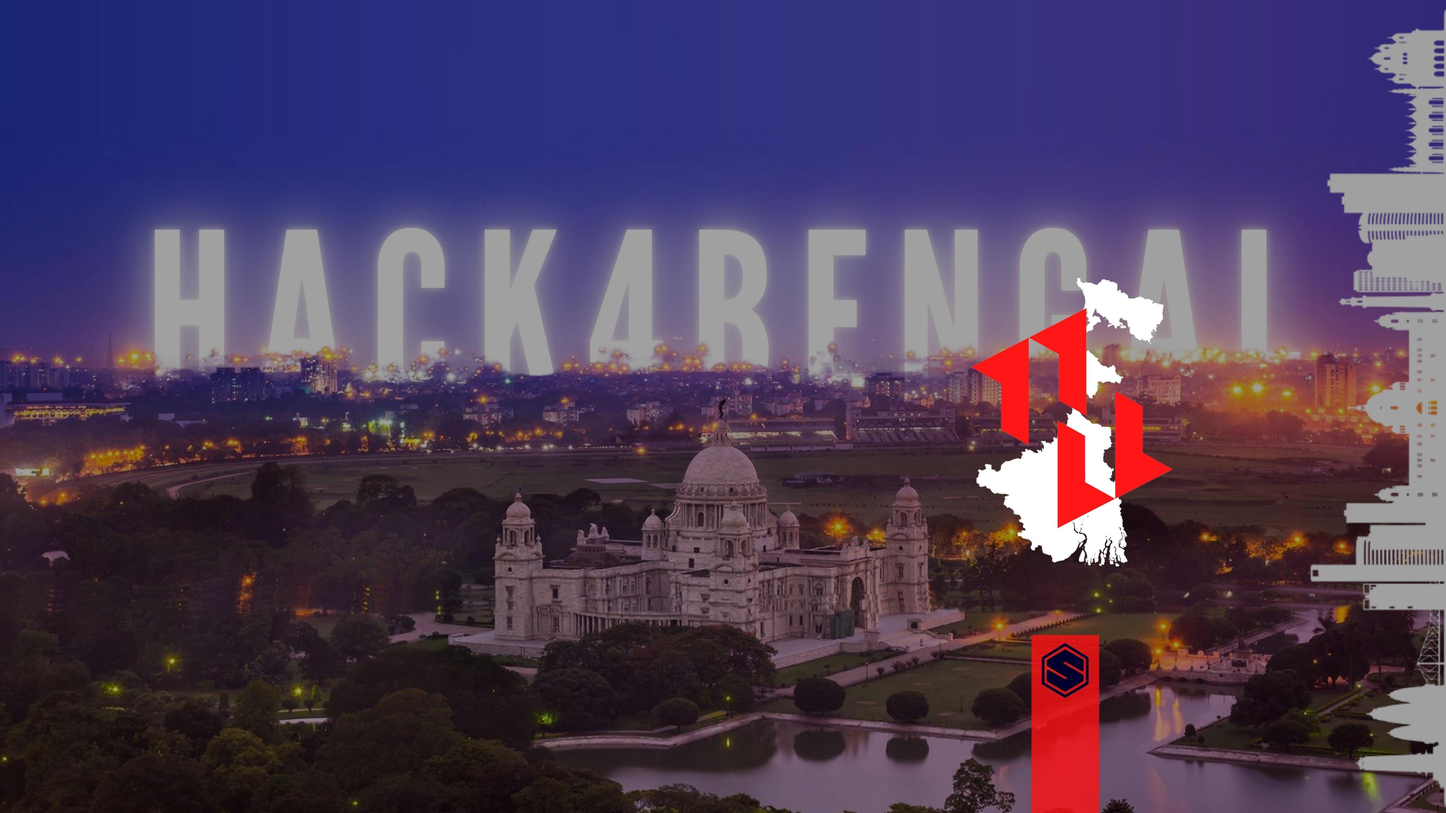
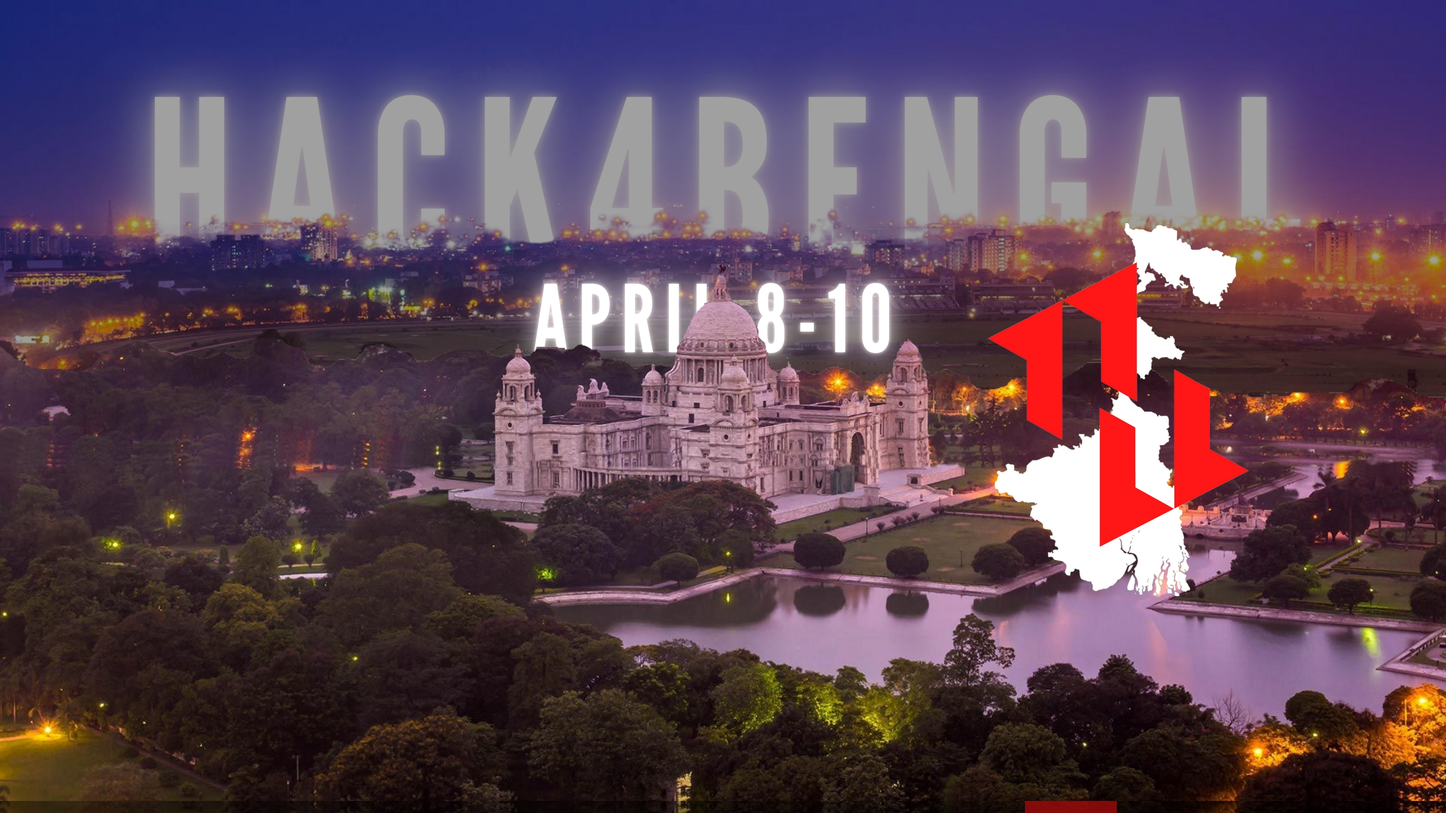
home scr

diff --git a/index.html b/index.html
@@ -36,7 +36,7 @@
   <script async src="https://www.googletagmanager.com/gtag/js?id=G-SBJFT4043Y"></script>
   <script>
     window.dataLayer = window.dataLayer || [];
-    function gtag(){dataLayer.push(arguments);}
+    function gtag() { dataLayer.push(arguments); }
     gtag('js', new Date());
 
     gtag('config', 'G-SBJFT4043Y');
@@ -130,14 +130,16 @@
           <!-- <a href="#about" class="btn-join-discord scrollto" data-hackathon-slug="hack4bengal" data-button-theme="light"
             style="height: 44px; width: 312px;">&nbsp;</a> -->
           <div class="btn-join-discord scrollto py-2 col-lg-6 col-md-12 col-sm-12">
-            <a href="https://discord.gg/HaRVXjm5FP" target="_blank" style="height: 44px;width: 312px; max-width: 312px; text-align: center;"
-              class="btn-lg register-btn discord"><i class='bi bi-discord'>&nbsp Join Discord Server</i></a>
+            <a href="https://discord.gg/HaRVXjm5FP" target="_blank"
+              style="height: 44px;width: 312px; max-width: 312px; text-align: center;"
+              class="btn-lg register-btn discord"><i class='bi bi-discord' style="font-style: normal;">&nbsp Join
+                Discord Server</i></a>
           </div>
           <div class="py-2 col-lg-6 col-md-12 col-sm-12">
             <div class="apply-button" data-hackathon-slug="uplift" data-button-theme="light"
               style="height: 44px; width: 312px"></div>
           </div>
-          
+
         </div>
       </div>
     </div>
@@ -147,8 +149,67 @@
 
   <main id="main">
     <!-- ======= Portfolio Section ======= -->
+    <section id="testimonials" class="testimonials" style="padding-bottom: 0px;">
+      <div class="container" data-aos="fade-up">
+        <div class="section-title" style="padding: 0px">
+          <h2 style="color: red">Starts In</h2>
+          <h2 id="counterTimer"></h2>
+          <style>
+            #counterTimer {
+              font-size: 120px;
+              font-family: 'Lucida Sans', 'Lucida Sans Regular', 'Lucida Grande', 'Lucida Sans Unicode', Geneva, Verdana, sans-serif;
+            }
 
+            @media (max-width: 768px) {
+              #counterTimer {
+                font-size: 30px;
+                font-family: 'Lucida Sans', 'Lucida Sans Regular', 'Lucida Grande', 'Lucida Sans Unicode', Geneva, Verdana, sans-serif;
+              }
+            }
+
+            @media (max-height: 500px) {
+              #counterTimer {
+                font-size: 30px;
+                font-family: 'Lucida Sans', 'Lucida Sans Regular', 'Lucida Grande', 'Lucida Sans Unicode', Geneva, Verdana, sans-serif;
+              }
+            }
+          </style>
+          <script>
+            // Set the date we're counting down to
+            var countDownDate = new Date("Apr 8, 2022 22:00:00").getTime();
+
+            // Update the count down every 1 second
+            var x = setInterval(function () {
+
+              // Get today's date and time
+              var now = new Date().getTime();
+
+              // Find the distance between now and the count down date
+              var distance = countDownDate - now;
+
+              // Time calculations for days, hours, minutes and seconds
+              var days = Math.floor(distance / (1000 * 60 * 60 * 24));
+              var hours = Math.floor((distance % (1000 * 60 * 60 * 24)) / (1000 * 60 * 60));
+              var minutes = Math.floor((distance % (1000 * 60 * 60)) / (1000 * 60));
+              var seconds = Math.floor((distance % (1000 * 60)) / 1000);
+
+              // Output the result in an element with id="demo"
+              document.getElementById("counterTimer").innerHTML = days + "d " + hours + "h "
+                + minutes + "m " + seconds + "s ";
+
+              // If the count down is over, write some text 
+              if (distance < 0) {
+                clearInterval(x);
+                document.getElementById("demo").innerHTML = "EXPIRED";
+              }
+            }, 1000);
+          </script>
+        </div>
+      </div>
+    </section><!-- End Testimonials Section -->
+    <!-- ======= Services Section ======= -->
     <section id="counts" class="counts">
+
       <div class="container" data-aos="fade-up">
 
         <div class="row">

diff --git a/assets/css/style.css b/assets/css/style.css
@@ -384,6 +384,10 @@ h1, h2, h3, h4, h5, h6 {
 
 
 @media (max-width: 768px) {
+
+  #counterTimer {
+    font-size: 30px;
+  }
   #hero {
     text-align: center;
     padding-top: 58px;
@@ -411,6 +415,9 @@ h1, h2, h3, h4, h5, h6 {
   }
 }
 @media (max-height: 500px) {
+  #counterTimer {
+    font-size: 30px;
+  }
   #hero {
     height: 120vh;
     background: url("../img/picmob.png") top center no-repeat;
